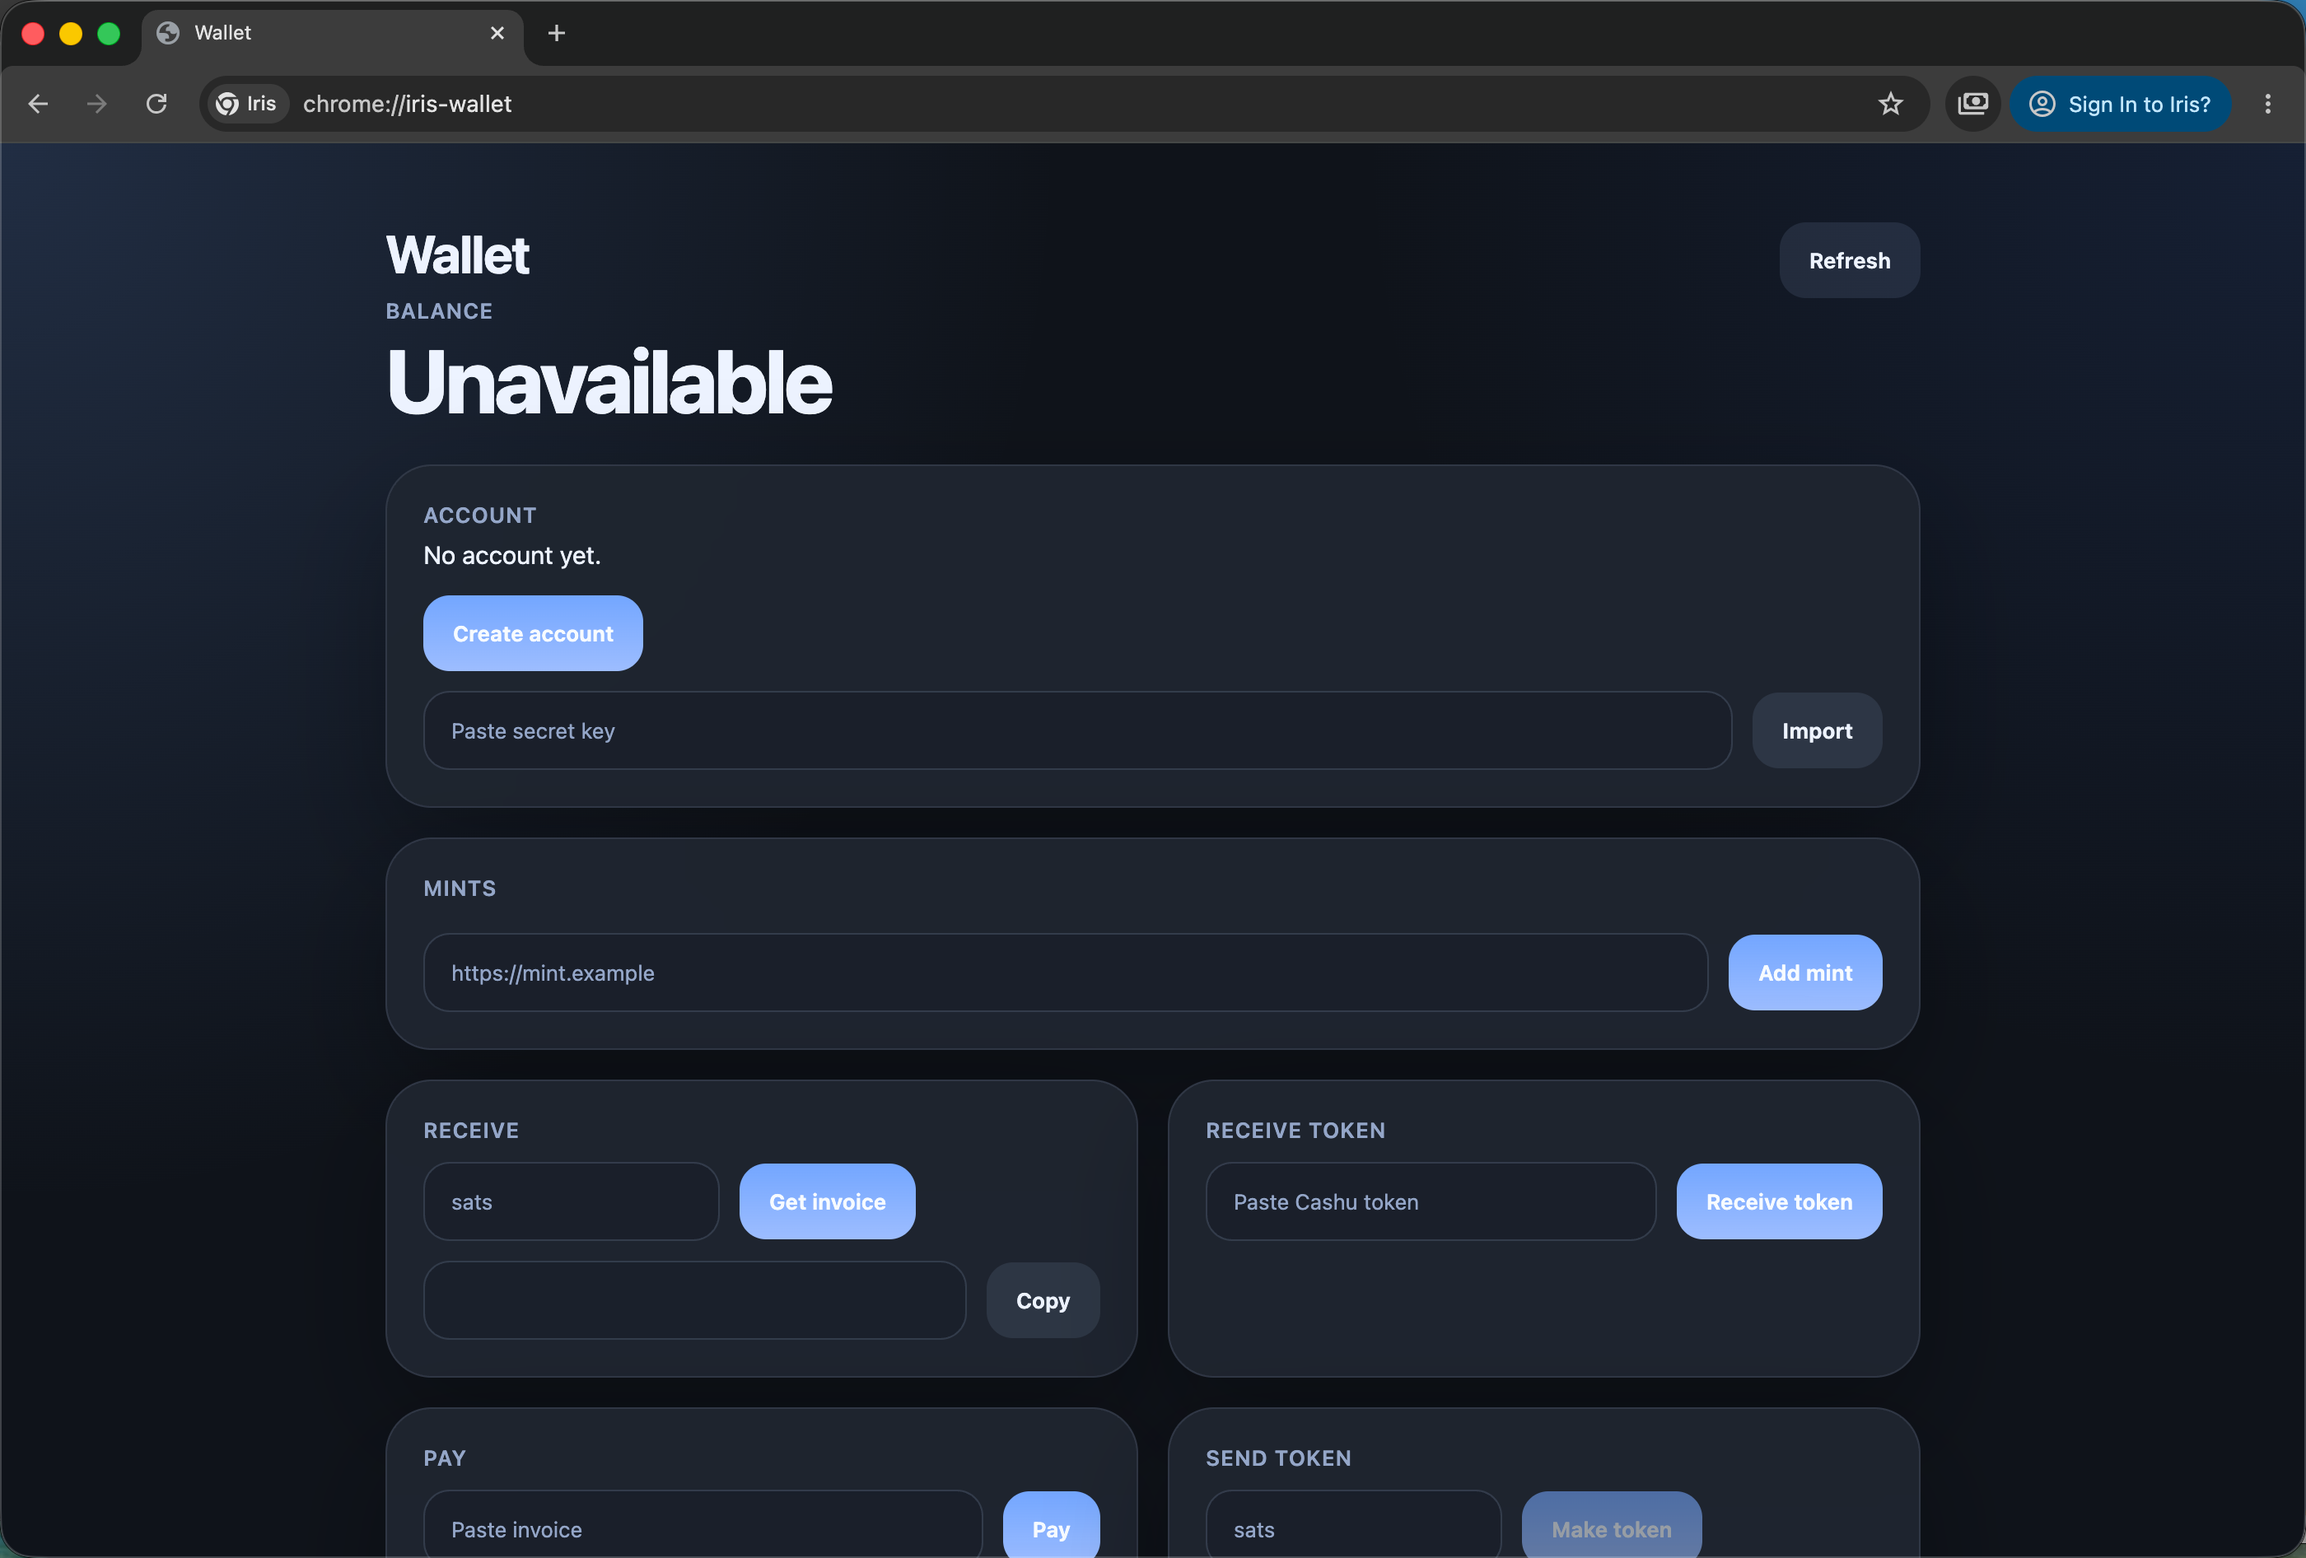
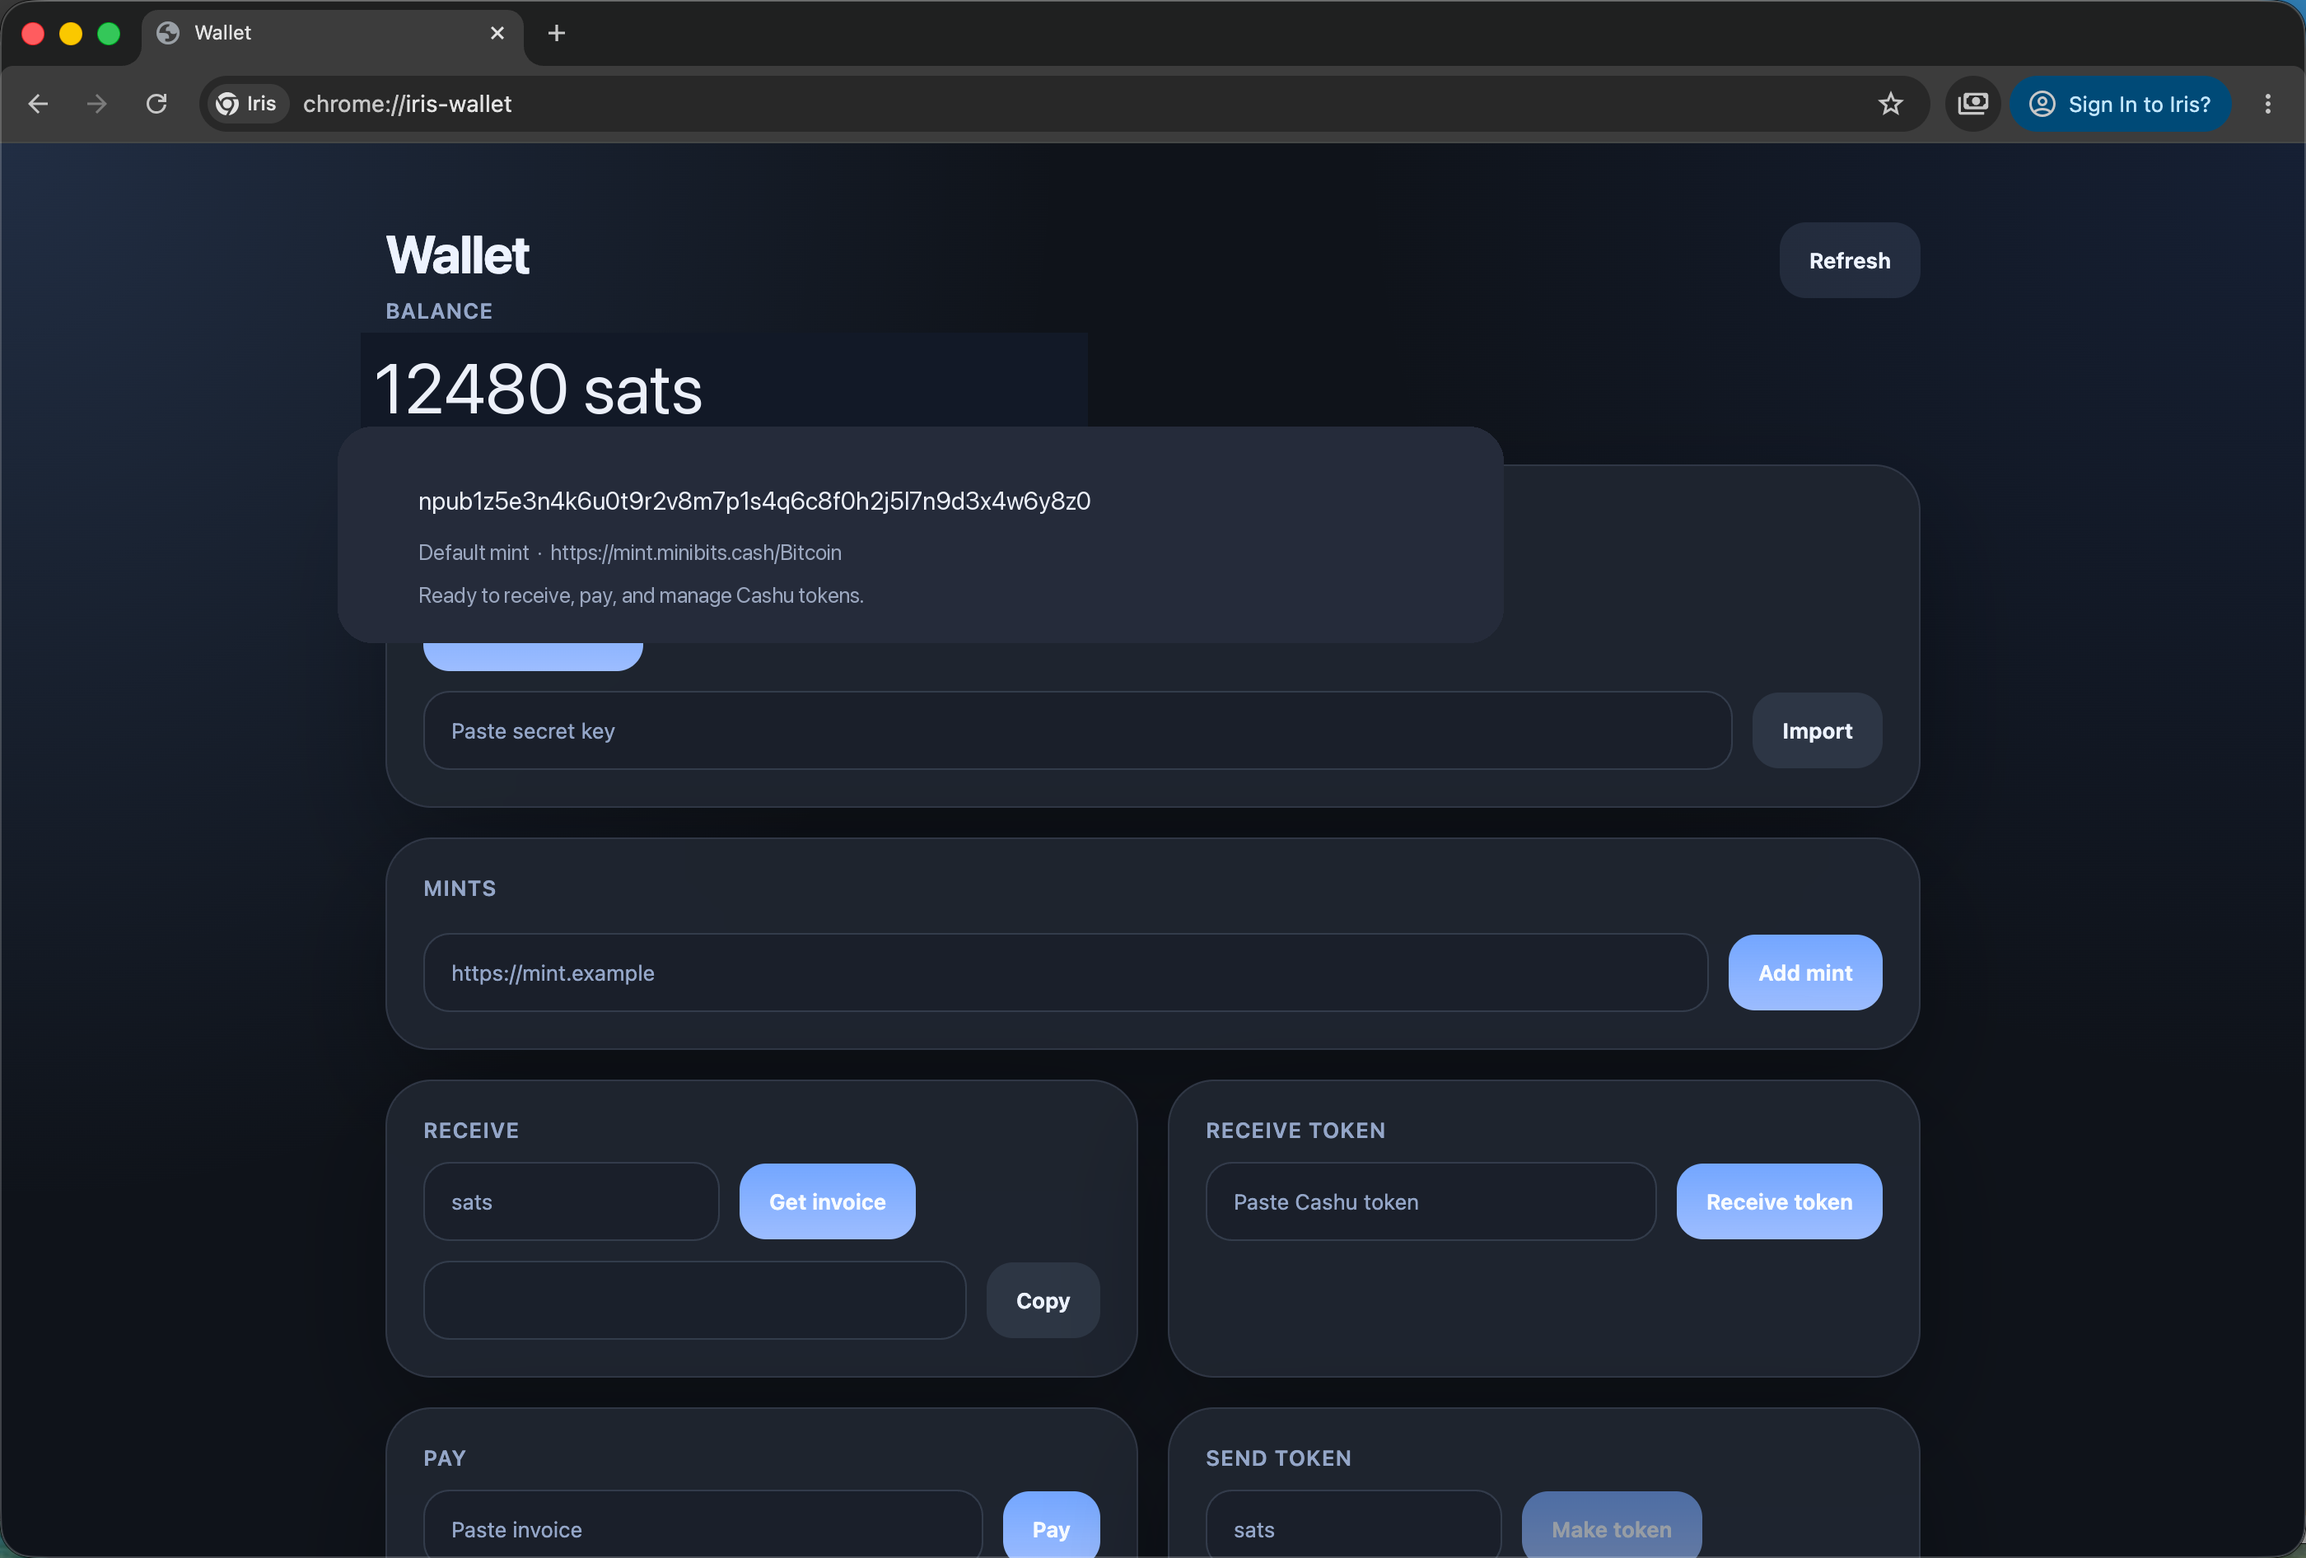
Refresh wallet and permission shots

Changed region(s): [[0.1554, 0.2183, 0.6525, 0.4366]]

diff --git a/apps/browser-site/src/App.svelte b/apps/browser-site/src/App.svelte
@@ -73,9 +73,9 @@
     },
     {
       src: `${baseUrl}browser-permission.png`,
-      alt: 'Iris Browser asking before a site uses wallet access',
+      alt: 'Iris Browser asking before a site checks wallet balance',
       title: 'Sites ask first',
-      body: 'Account and money access stay under your control instead of being handed out silently.',
+      body: 'Iris asks whether a site can check your balance or request a payment before it touches your wallet.',
     },
   ];
 
